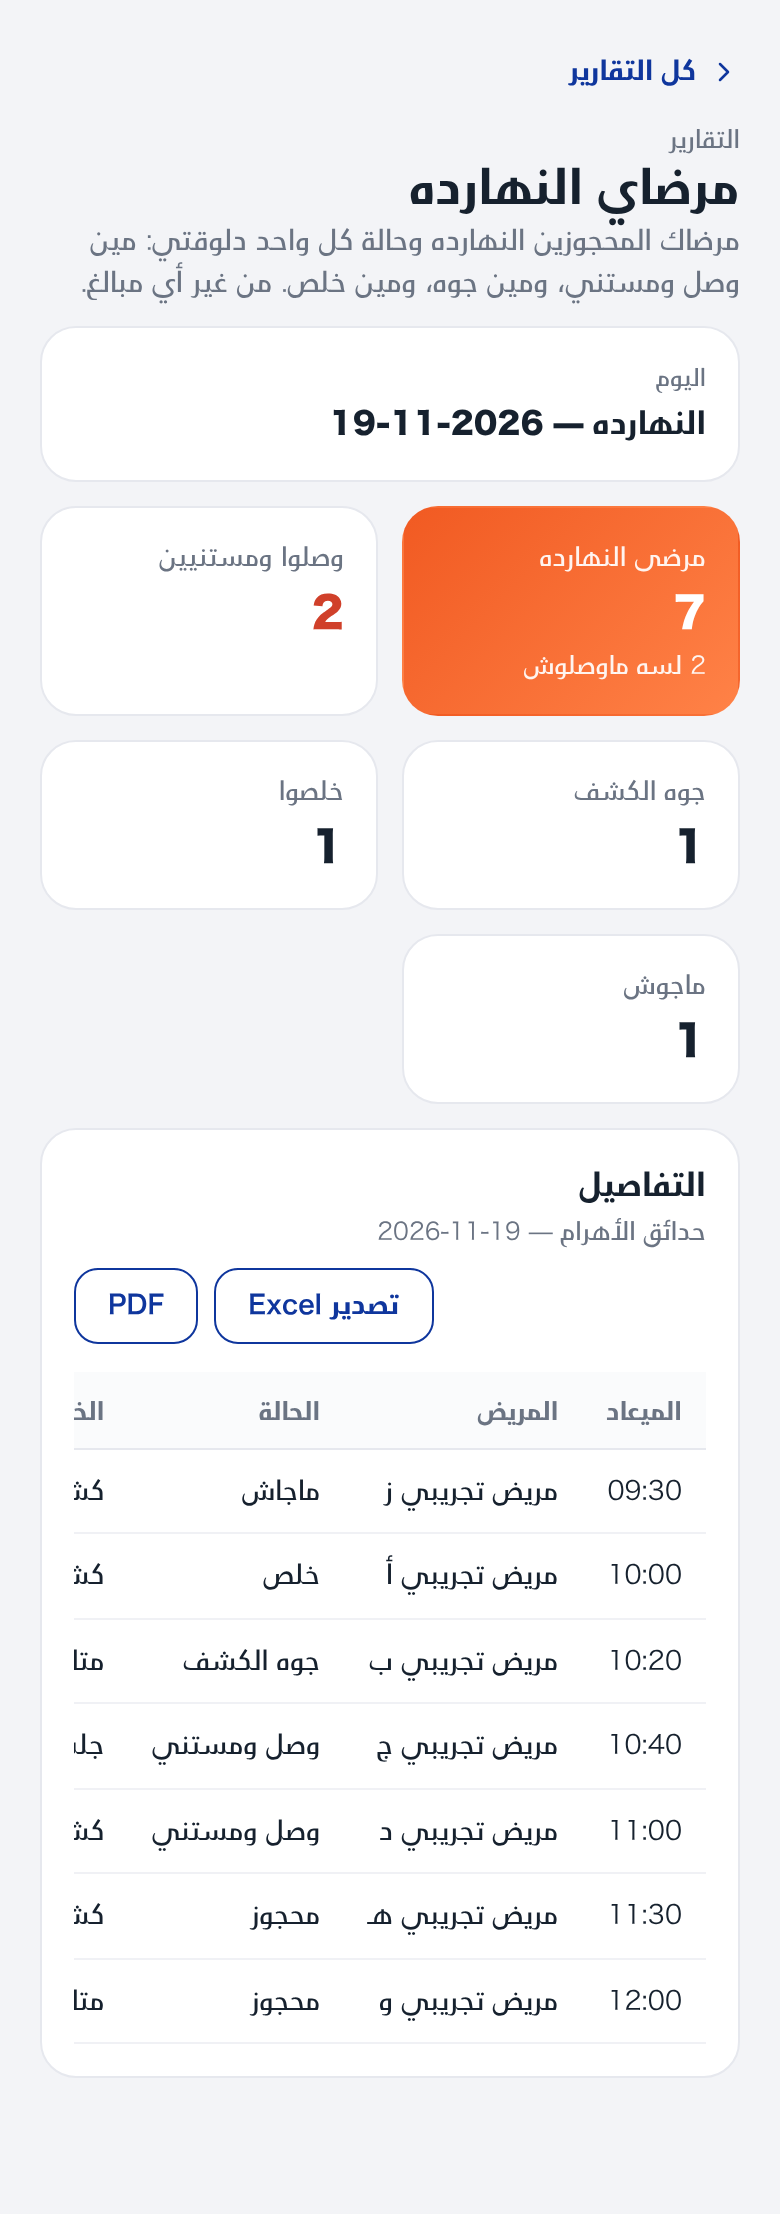
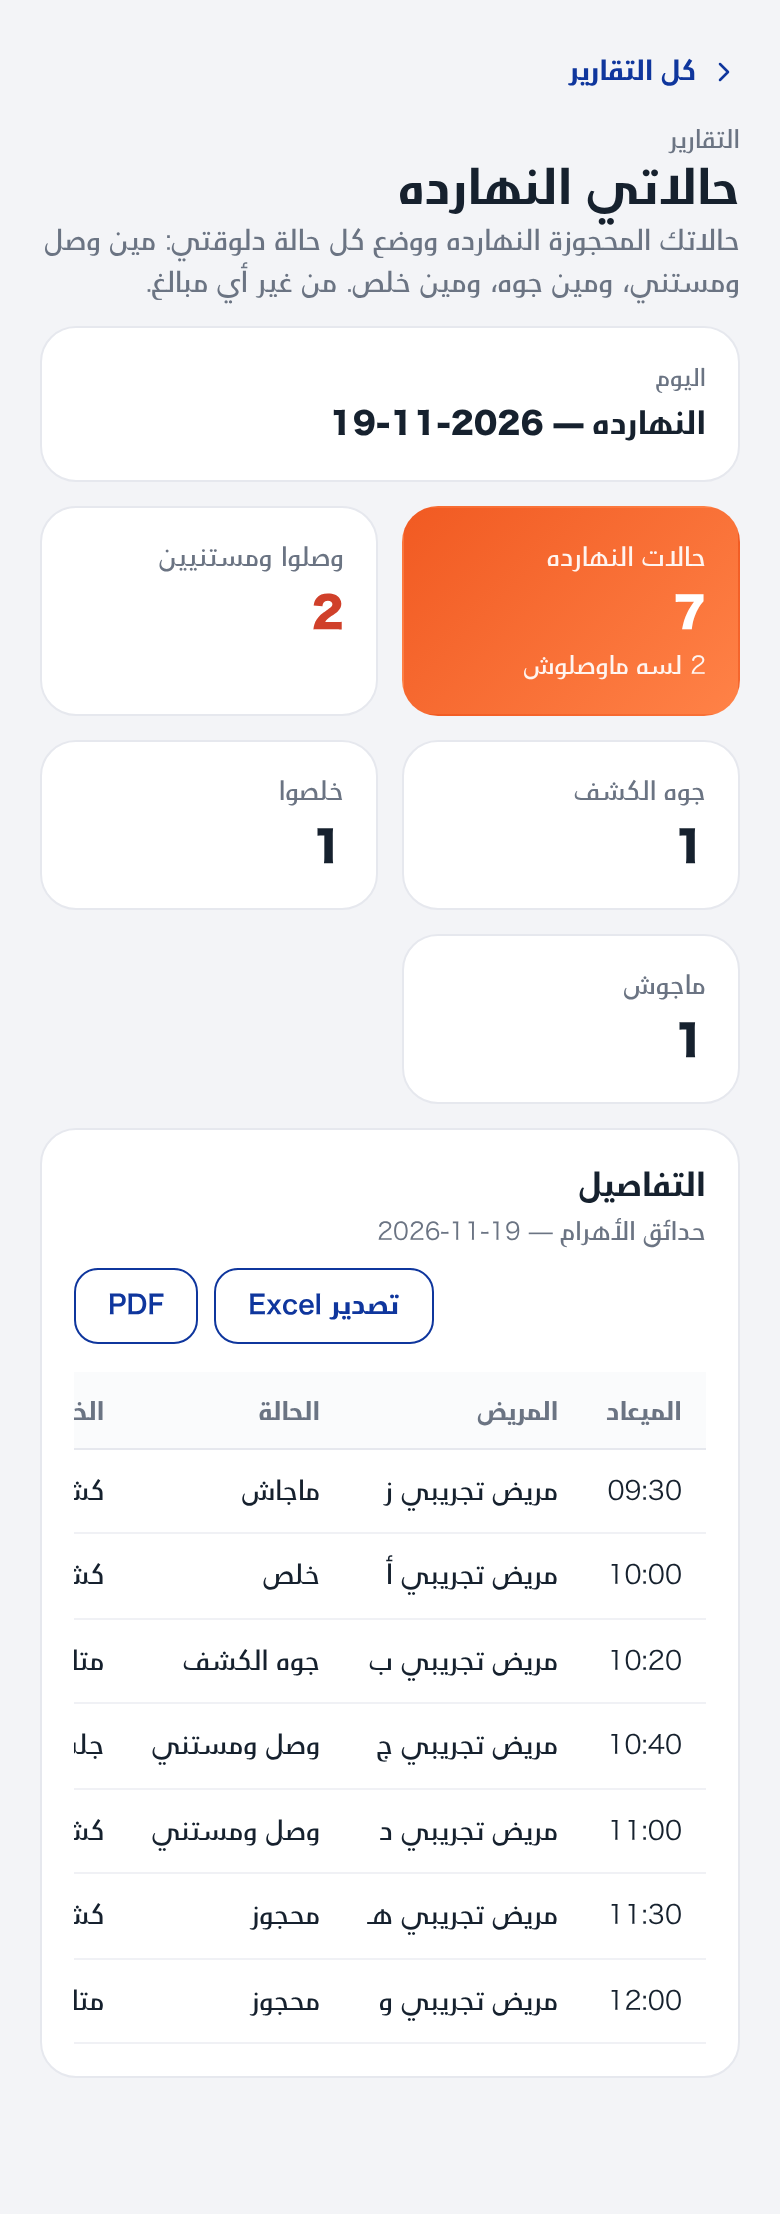
Doctor day: rename to «حالاتي النهارده» (owner)
Claude-Session: https://claude.ai/code/session_01UqVZHZ6KKU56YD73GJ2Em3

diff --git a/assets/js/render-reports.js b/assets/js/render-reports.js
@@ -569,7 +569,7 @@
       notice: function (d) { return "الانتظار محسوب من تسجيل الوصول (أو فتح الزيارة) لحد ما أول خدمة تتقفل. لو الخدمة مش بتتقفل في وقتها الأرقام هتطلع أكبر من الحقيقة."; }
     },
     doctor_day: {
-      sub: "مرضاك المحجوزين النهارده وحالة كل واحد دلوقتي: مين وصل ومستني، ومين جوه، ومين خلص. من غير أي مبالغ.",
+      sub: "حالاتك المحجوزة النهارده ووضع كل حالة دلوقتي: مين وصل ومستني، ومين جوه، ومين خلص. من غير أي مبالغ.",
       range: false, dayLabel: "اليوم", dayDefault: "today", doctorDay: true,
       cols: [C("time", "الميعاد"), C("patient", "المريض"), C("state", "الحالة", "status", DAY_STATE), C("service", "الخدمة"), C("file_no", "رقم الملف"),
         C("arrived", "وصل الساعة"), C("wait_min", "مستني من (دقيقة)")],
@@ -577,13 +577,13 @@
       load: function (f) { return rpc("report_doctor_day", { p_day: f.day || null, p_doctor_key: f.dockey || null }); },
       tiles: function (d) {
         var t = d.totals || {};
-        return [{ l: "مرضى النهارده", v: fmtNum(t.patients), hero: true, sub: fmtNum(t.booked) + " لسه ماوصلوش" },
+        return [{ l: "حالات النهارده", v: fmtNum(t.patients), hero: true, sub: fmtNum(t.booked) + " لسه ماوصلوش" },
           { l: "وصلوا ومستنيين", v: fmtNum(t.waiting), neg: num(t.waiting) > 0 }, { l: "جوه الكشف", v: fmtNum(t.in_visit) },
           { l: "خلصوا", v: fmtNum(t.done) }, { l: "ماجوش", v: fmtNum(t.no_show) }];
       },
       notice: function (d) {
-        if (d.mode === "doctor" && !d.linked) return "حسابك لسه مش متربط باسمك كدكتور في الاستقبال. كلّم الإدارة تربطه من «الموارد البشرية» (كود الدكتور)، وبعدها هتلاقي مرضاك هنا.";
-        if (d.mode === "preview") return "إنت شايف الشاشة زي ما الدكتور بيشوفها. الدكتور نفسه بيشوف مرضاه هو بس، ليوم النهارده بس.";
+        if (d.mode === "doctor" && !d.linked) return "حسابك لسه مش متربط باسمك كدكتور في الاستقبال. كلّم الإدارة تربطه من «الموارد البشرية» (كود الدكتور)، وبعدها هتلاقي حالاتك هنا.";
+        if (d.mode === "preview") return "إنت شايف الشاشة زي ما الدكتور بيشوفها. الدكتور نفسه بيشوف حالاته هو بس، ليوم النهارده بس.";
         return "";
       }
     },
@@ -866,7 +866,7 @@
     rpc("report_catalog").then(function (cat) {
       state.catalog = cat && cat.reports ? cat : { reports: [], branches: [] };
       return rpc("report_target_can_propose").catch(function () { return false; }).then(function (ok) { state.canTargets = ok === true; wire(root);
-        // A doctor whose only report is «مرضاي النهارده» lands on it straight away.
+        // A doctor whose only report is «حالاتي النهارده» lands on it straight away.
         var open = state.catalog.reports.filter(function (r) { return r.allowed; });
         if (open.length === 1 && open[0].code === "doctor_day" && !state.canTargets) openReport(root, "doctor_day"); else showHome(root); });
     }).catch(function (e) { root.innerHTML = '<div class="rc-error" role="alert">' + esc(errMsg(e)) + "</div>"; });

diff --git a/tests/reports-center-fixture.html b/tests/reports-center-fixture.html
@@ -51,7 +51,7 @@ w2.report_service_margin={rows:[{service:'جلسة ليزر',specialty:'جلدي
 w2.report_device_roi={days:19,rows:[{code:'LZ1',device:'جهاز ليزر تجريبي',meter_kind:'shots',uses:38,uses_per_day:2,hours:19,meter:41800,revenue:45600,direct_costs:15200,contribution:30400,asset_linked:false},{code:'US1',device:'سونار تجريبي',meter_kind:'none',uses:60,uses_per_day:3.16,hours:15,meter:0,revenue:24000,direct_costs:12900,contribution:11100,asset_linked:false},{code:'XR1',device:'أشعة تجريبي',meter_kind:'none',uses:0,uses_per_day:0,hours:0,meter:0,revenue:0,direct_costs:0,contribution:0,asset_linked:false}],totals:{devices:3,uses:98,hours:34,revenue:69600,direct_costs:28100,contribution:41500,idle_devices:1}};
 w2.report_referral_efficiency={rows:[{doctor:'د. تجريبي — باطنة',specialties:'أشعة، معمل',referred:46,patients:40,executed:41,cancelled:5,conversion:89.1,revenue:18450,referral_fees:1845,self_referrals:0},{doctor:'د. تجريبي — نساء',specialties:'أشعة',referred:20,patients:19,executed:14,cancelled:6,conversion:70,revenue:5600,referral_fees:560,self_referrals:2}],open_issues:1,totals:{referred:66,executed:55,cancelled:11,revenue:24050,referral_fees:2405,self_referrals:2}};
 w2.report_waiting_time={rows:[{doctor:'د. تجريبي — أسنان',specialty:'أسنان',visits:96,avg_wait:34.5,median_wait:28,over_30:41,over_60:9,avg_patient_late:8,not_finished:2},{doctor:'د. تجريبي — جلدية',specialty:'جلدية',visits:88,avg_wait:18.2,median_wait:15,over_30:12,over_60:1,avg_patient_late:11,not_finished:0}],by_hour:[],totals:{visits:184,avg_wait:26.7,over_30:53,over_60:10,not_finished:2}};
-cat.reports=cat.reports.concat([{code:'doctor_day',title:'مرضاي النهارده',area:'doctors',sensitive:false,allowed:true}]);
+cat.reports=cat.reports.concat([{code:'doctor_day',title:'حالاتي النهارده',area:'doctors',sensitive:false,allowed:true}]);
 if(screen==='doctor'){cat.reports=cat.reports.map(function(r){return Object.assign({},r,{allowed:r.code==='doctor_day'});});}
 var ddRows=[{time:'09:30',patient:'مريض تجريبي ز',file_no:'F-0612',service:'كشف جلدية',doctor:'د. تجريبي',state:'no_show',arrived:null,wait_min:null},
  {time:'10:00',patient:'مريض تجريبي أ',file_no:'F-1021',service:'كشف جلدية',doctor:'د. تجريبي',state:'done',arrived:'09:52',wait_min:12},
